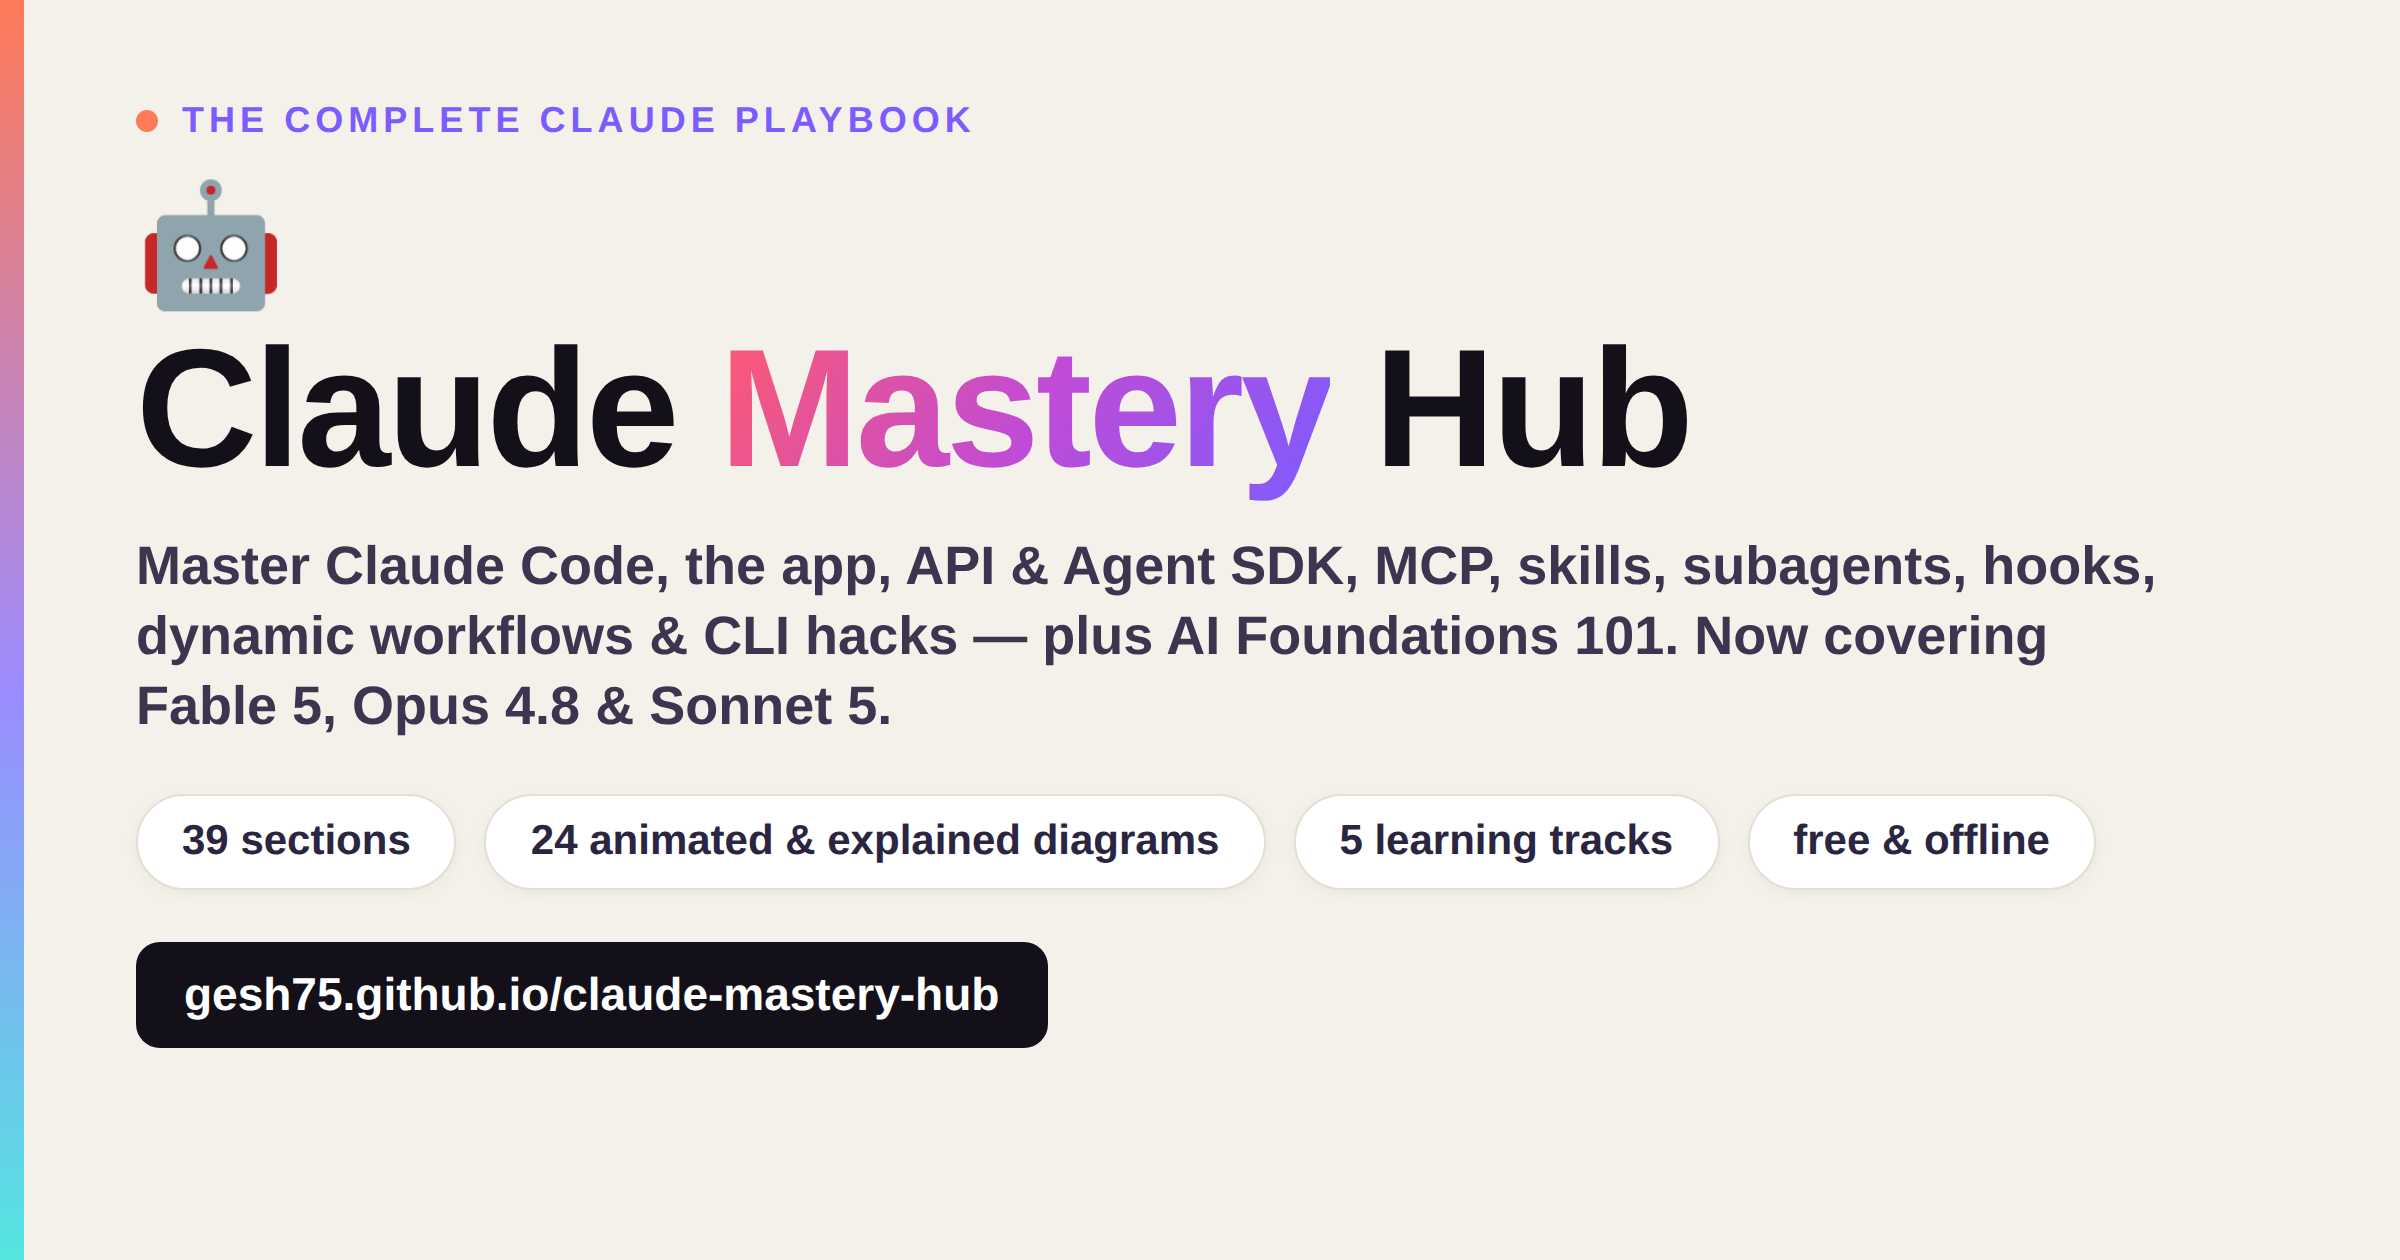
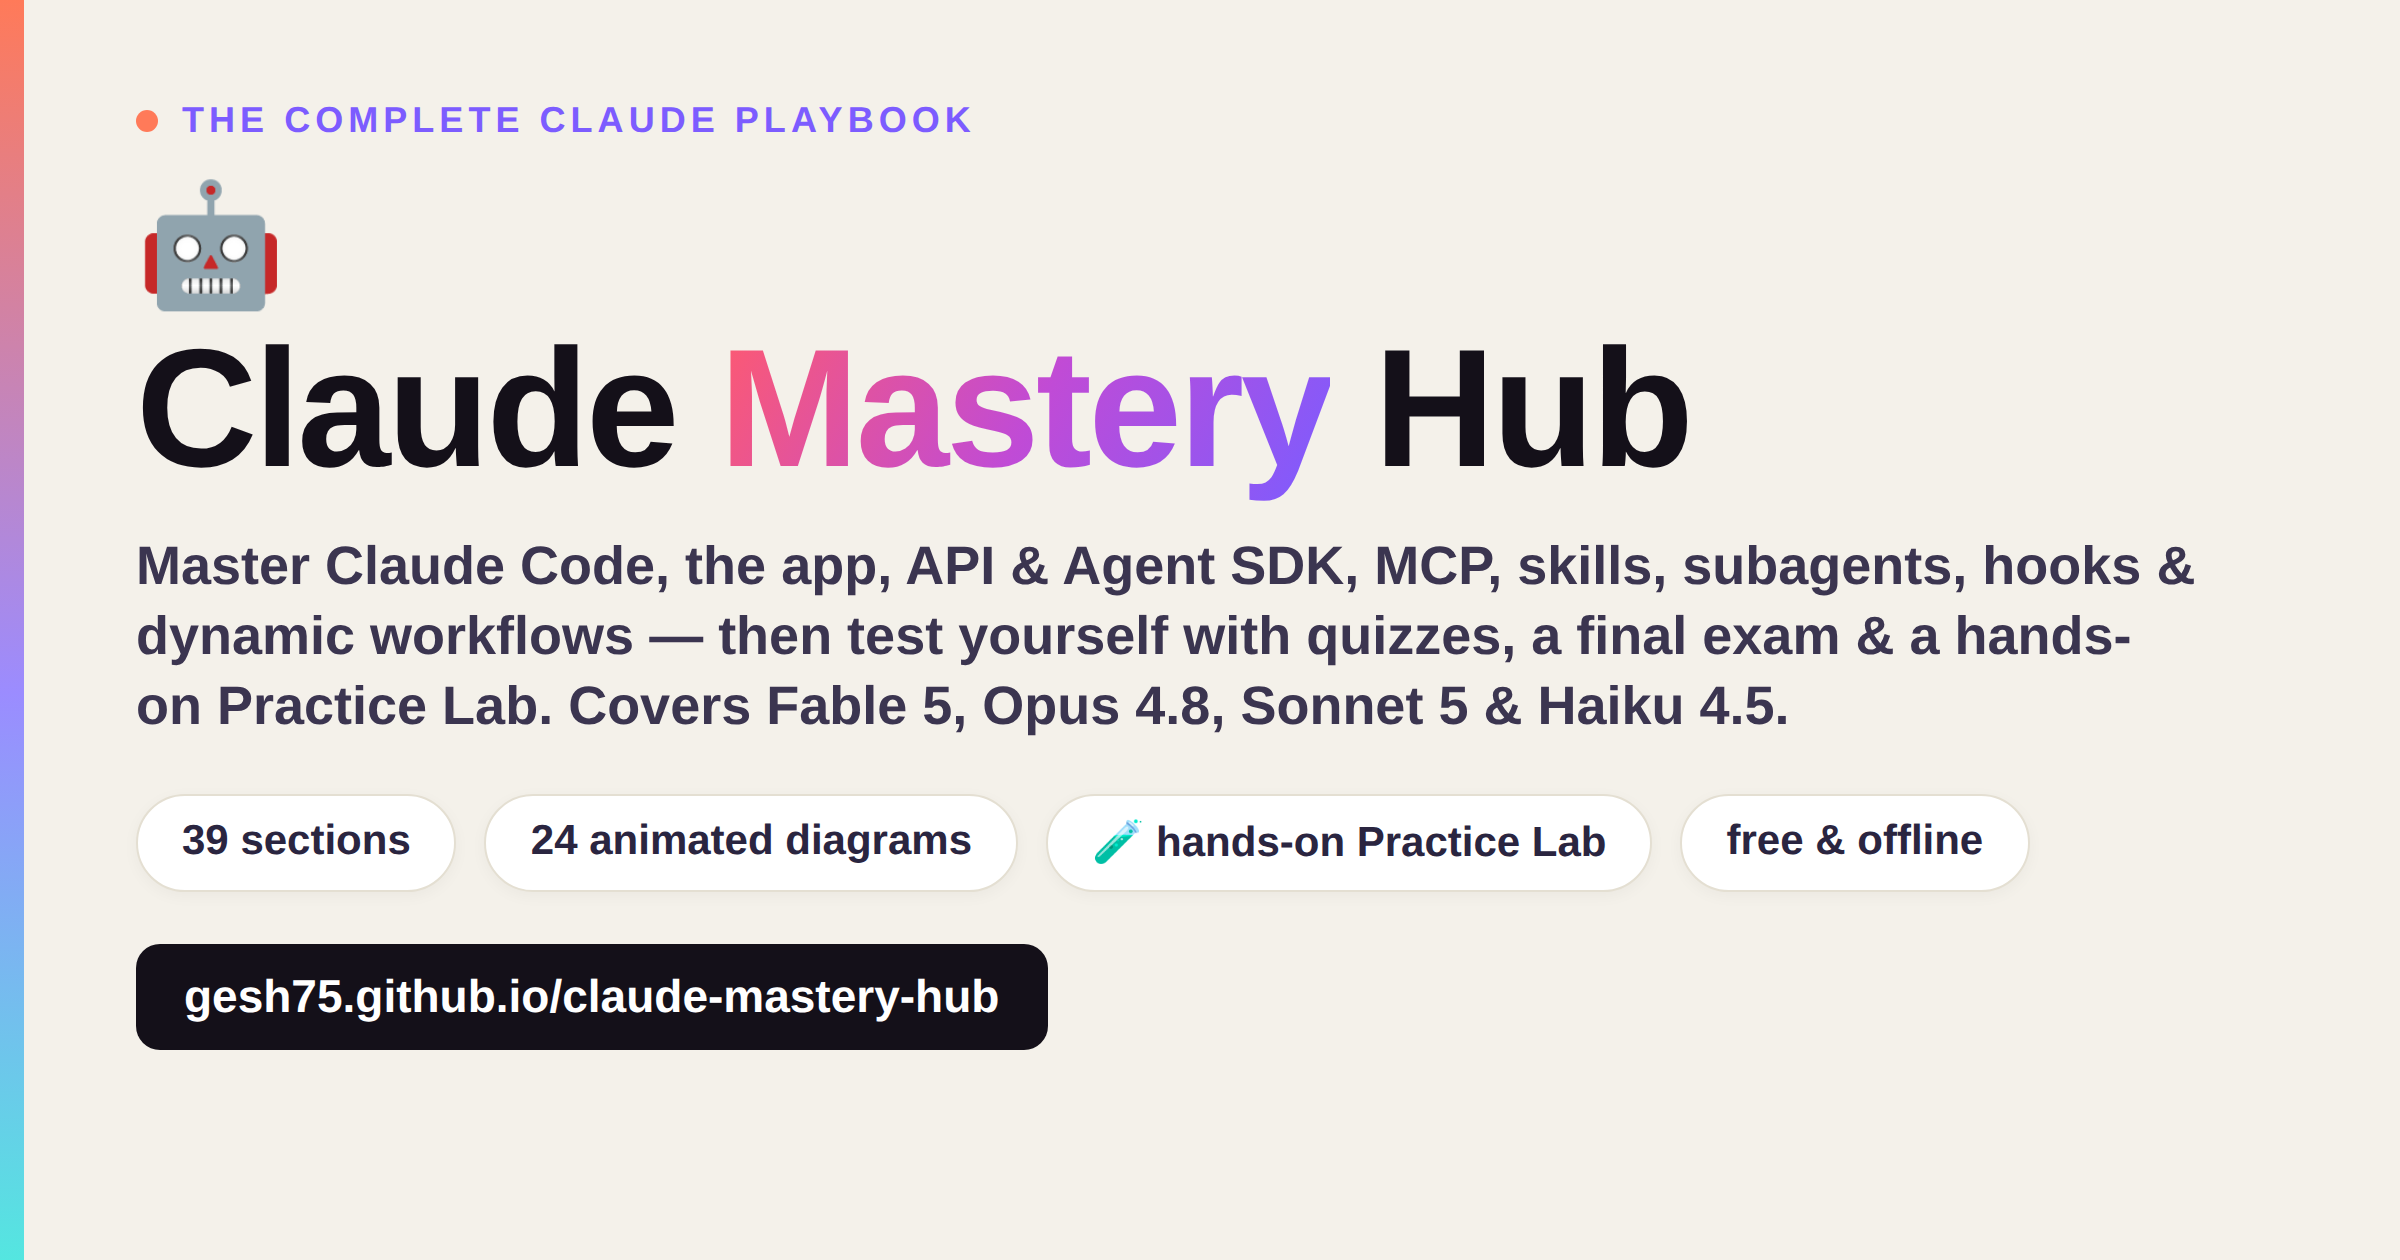
Refresh og.png social card to feature the Practice Lab (#9)
Regenerate the share card (🧪 Practice Lab chip + updated subtitle & model lineup) and update og/twitter description meta.

diff --git a/index.html b/index.html
@@ -8,7 +8,7 @@
 <meta property="og:type" content="website">
 <meta property="og:site_name" content="Claude Mastery Hub">
 <meta property="og:title" content="Claude Mastery Hub — extract maximum power from Claude">
-<meta property="og:description" content="40 deep-dive sections · 24 animated & explained diagrams · 100+ self-test quiz questions + a scored final exam · 150+ examples. Master Claude Code, the API & Agent SDK, MCP, skills, subagents, hooks — plus AI Foundations 101.">
+<meta property="og:description" content="40 deep-dive sections · 24 animated & explained diagrams · 100+ self-test quiz questions, a scored final exam & a hands-on Practice Lab · 150+ examples. Master Claude Code, the API & Agent SDK, MCP, skills, subagents, hooks — plus AI Foundations 101.">
 <meta property="og:url" content="https://gesh75.github.io/claude-mastery-hub/">
 <meta property="og:image" content="https://gesh75.github.io/claude-mastery-hub/og.png">
 <meta property="og:image:width" content="1200">
@@ -16,7 +16,7 @@
 <meta property="og:image:alt" content="Claude Mastery Hub">
 <meta name="twitter:card" content="summary_large_image">
 <meta name="twitter:title" content="Claude Mastery Hub — extract maximum power from Claude">
-<meta name="twitter:description" content="40 deep-dive sections · 24 animated diagrams · 100+ self-test quiz questions + a scored final exam · 150+ examples on Claude — plus a beginner AI Foundations 101 track.">
+<meta name="twitter:description" content="40 deep-dive sections · 24 animated diagrams · quizzes, a scored final exam & a hands-on Practice Lab · 150+ examples on Claude — plus a beginner AI Foundations 101 track.">
 <meta name="twitter:image" content="https://gesh75.github.io/claude-mastery-hub/og.png">
 <title>Claude Mastery Hub — Extract Maximum Power from Claude</title>
 <style>